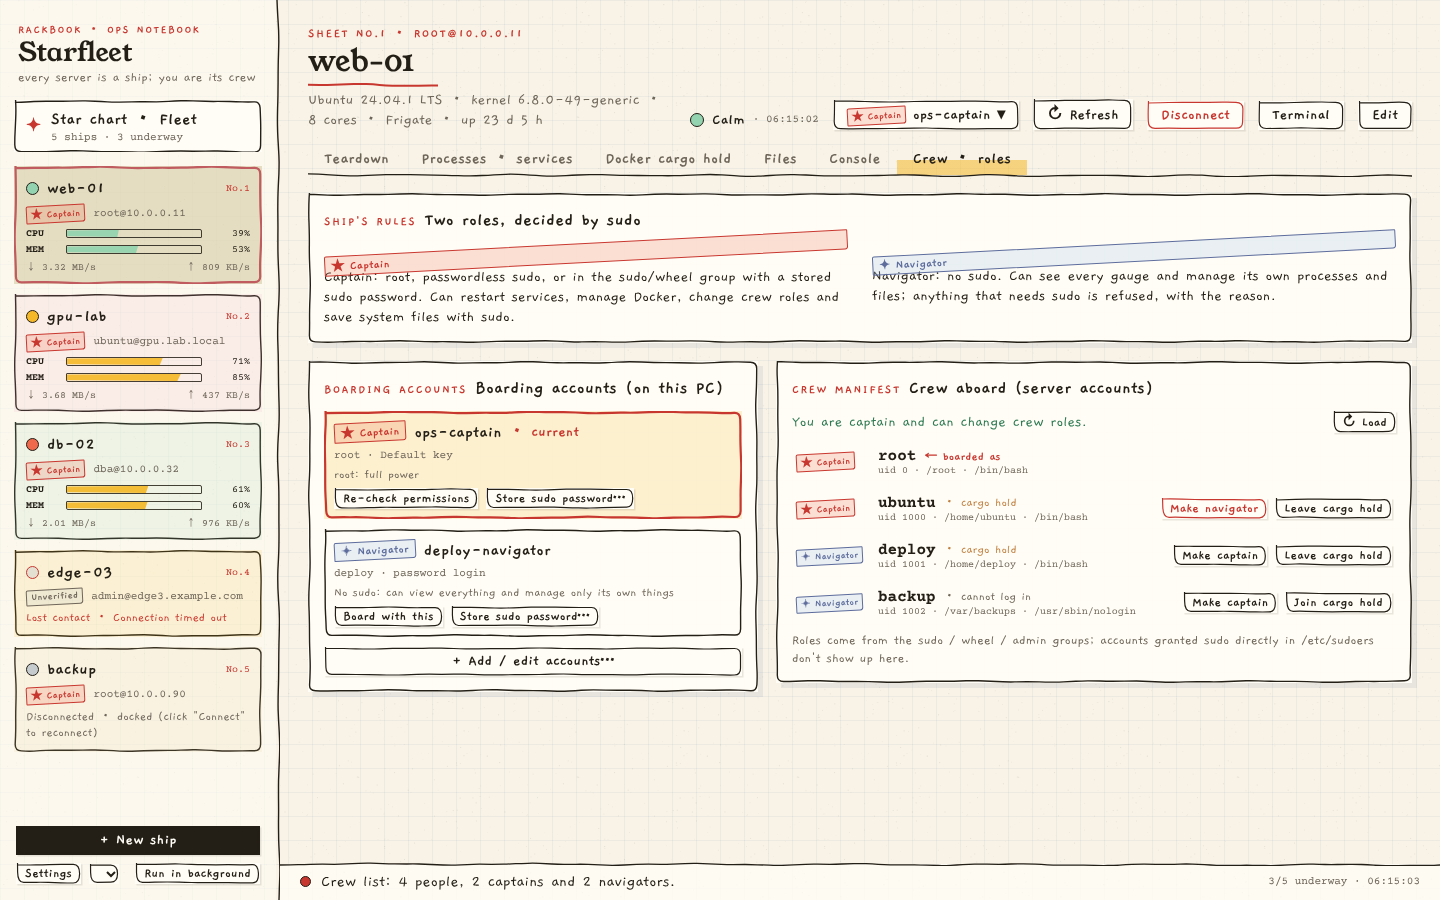
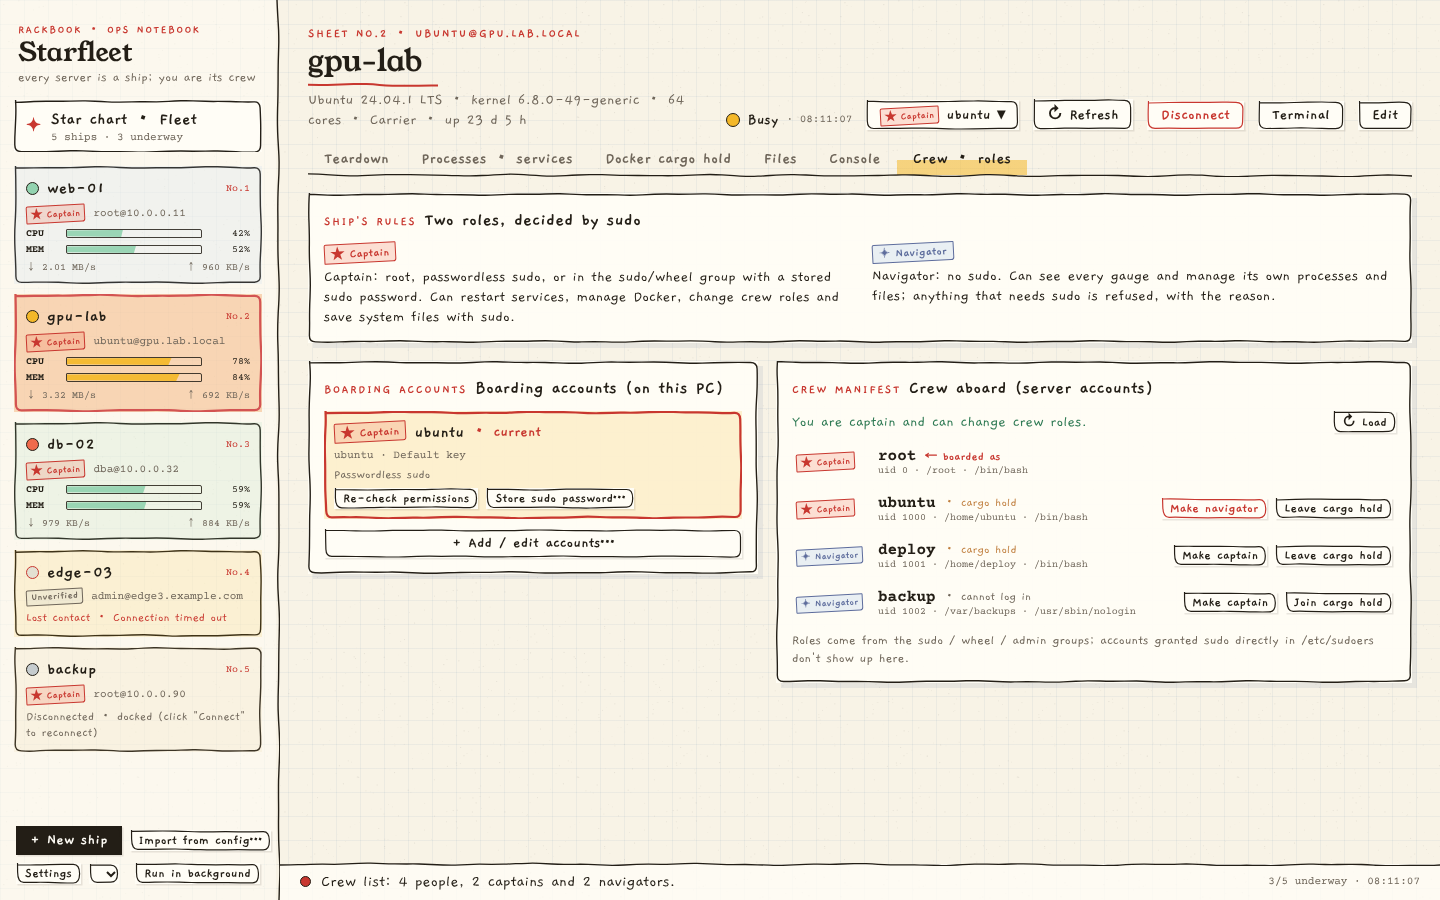
Teardown tab: per-GPU card fills the grid, grouped GPU names, tables that don't wrap; fresh screenshots
- GPU chart shows '8 × NVIDIA A100-PCIE-40GB'; a 'GPUs' card beside it lists util, memory, temperature, power per card
- Storage: usage bars render (they collapsed to a line inside table cells); numbers never wrap; long mount names truncate
- Chart headlines keep the big number on one line and move the note below on narrow windows
- README screenshots retaken (crew page with the badge fix, teardown with 8 GPUs, import dialog); READMEs mention import

Claude-Session: https://claude.ai/code/session_01EYWfbXdmoVbhbVGBKLyeYf

diff --git a/ui/js/views/tab_teardown.js b/ui/js/views/tab_teardown.js
@@ -89,7 +89,17 @@ export function mount(el, { id }) {
       cc('net', 'Network', '网络吞吐', s ? '↓ ' + F.rate(s.rxRate) : '—', s ? `↑ ${F.rate(s.txRate)}   蓝 = 下行，红 = 上行` : ''),
       cc('disk', 'Disk I/O', '磁盘读写', s ? '读 ' + F.rate(s.ioRead) : '—', s ? `写 ${F.rate(s.ioWrite)}   绿 = 读，棕 = 写` : ''),
     ];
-    if (s?.gpus?.length) charts.push(cc('gpu', 'GPU', '显卡占用（平均）', F.pct(gpuUtil(s)), `${s.gpus.length} 块 · ${s.gpus.map((g) => g.name).join(', ')}`));
+    if (s?.gpus?.length) {
+      // "8 × NVIDIA A100-PCIE-40GB" rather than the same name eight times
+      const models = Object.entries(s.gpus.reduce((m, g) => ((m[g.name] = (m[g.name] || 0) + 1), m), {})).map(([n, c]) => (c > 1 ? `${c} × ${n}` : n)).join(' · ');
+      charts.push(cc('gpu', 'GPU', '显卡占用（平均）', F.pct(gpuUtil(s)), models));
+      // the card beside it: one row per GPU, so the grid has no hole and each card is readable at a glance
+      const hot = (t) => (t == null ? '' : t >= 85 ? 'red' : '');
+      charts.push(`<div class="card sk${hero.focus === 'gpu' ? ' lit' : ''}"><div class="head"><span class="kicker">GPUs</span><span class="h">逐块显卡</span></div>
+        <div style="overflow:auto;max-height:200px"><table class="sheet"><tr><th>#</th><th style="width:38%">占用</th><th class="r">显存</th><th class="r">温度</th><th class="r">功耗</th></tr>` +
+        s.gpus.map((g) => `<tr><td class="nw"><b>${g.index}</b></td><td><div class="row" style="gap:6px">${bar(g.util / 100, C.pink, 9)}<span class="nw" style="width:34px;text-align:right">${F.pct(g.util)}</span></div></td><td class="r">${F.bytes(g.memUsed)} / ${F.bytes(g.memTotal)}</td><td class="r ${hot(g.temp)}">${g.temp == null ? '—' : Math.round(g.temp) + '°C'}</td><td class="r">${g.power == null ? '—' : Math.round(g.power) + ' W'}</td></tr>`).join('') +
+        `</table></div></div>`);
+    }
     const ch = el.querySelector('#charts');
     ch.innerHTML = charts.join('');
     const draw = (k, lines, maxY, fmt) => { const c = ch.querySelector(`[data-c="${k}"]`); if (c) lineChart(c, lines, maxY, fmt); };
@@ -99,11 +109,11 @@ export function mount(el, { id }) {
     draw('disk', [{ values: hist.ioR, color: C.sage }, { values: hist.ioW, color: C.wood, fill: false }], null, F.rate);
     draw('gpu', [{ values: hist.gpu, color: C.pink }], 100, F.pct);
 
-    el.querySelector('#disks').innerHTML = card(s && s.mounts.length ? `<table class="sheet"><tr><th>挂载点</th><th style="width:40%">用量</th><th class="r">已用 / 总量</th><th class="r">%</th></tr>` +
-      s.mounts.map((m) => `<tr class="${mountFrac(m) > 0.9 ? 'red' : ''}"><td class="hand"><b>${esc(m.mount)}</b><div class="mono muted" style="font-size:10px">${esc(m.fs)} · ${esc(m.type)}</div></td><td>${bar(mountFrac(m), null, 11)}</td><td class="r">${F.bytes(m.used)} / ${F.bytes(m.used + m.avail)}</td><td class="r"><b>${F.pct(mountFrac(m) * 100)}</b></td></tr>`).join('') + '</table>'
+    el.querySelector('#disks').innerHTML = card(s && s.mounts.length ? `<table class="sheet"><tr><th>挂载点</th><th>用量</th><th class="r">已用 / 总量</th><th class="r">%</th></tr>` +
+      s.mounts.map((m) => `<tr class="${mountFrac(m) > 0.9 ? 'red' : ''}"><td class="hand name" title="${esc(m.mount)}"><b data-notr>${esc(m.mount)}</b><div class="mono muted" data-notr style="font-size:10px">${esc(m.fs)} · ${esc(m.type)}</div></td><td style="min-width:90px">${bar(mountFrac(m), null, 11)}</td><td class="r">${F.bytes(m.used)} / ${F.bytes(m.used + m.avail)}</td><td class="r"><b>${F.pct(mountFrac(m) * 100)}</b></td></tr>`).join('') + '</table>'
       : '<div class="muted">没有可显示的挂载点。</div>', { kicker: 'Storage', title: '挂载点', lit: hero.focus === 'disk' });
     el.querySelector('#nets').innerHTML = card(s && s.nets.length ? `<table class="sheet"><tr><th>名称</th><th class="r">下行</th><th class="r">上行</th><th class="r">累计 收 / 发</th></tr>` +
-      s.nets.slice(0, 10).map((n) => `<tr><td><b>${esc(n.name)}</b></td><td class="r">${F.rate(n.rxRate)}</td><td class="r">${F.rate(n.txRate)}</td><td class="r">${F.bytes(n.rx)} / ${F.bytes(n.tx)}</td></tr>`).join('') + '</table>'
+      s.nets.slice(0, 10).map((n) => `<tr><td class="name" title="${esc(n.name)}"><b data-notr>${esc(n.name)}</b></td><td class="r">${F.rate(n.rxRate)}</td><td class="r">${F.rate(n.txRate)}</td><td class="r">${F.bytes(n.rx)} / ${F.bytes(n.tx)}</td></tr>`).join('') + '</table>'
       : '<div class="muted">没有网卡数据。</div>', { kicker: 'Interfaces', title: '网卡', lit: hero.focus === 'net' });
     sketchAll(el);
   };

diff --git a/ui/css/style.css b/ui/css/style.css
@@ -103,7 +103,7 @@ input, textarea, select, button { font: inherit; color: inherit; }
 .meter { display: flex; align-items: center; gap: 6px; font-family: var(--mono); font-size: 10px; }
 .meter .lab { width: 34px; font-weight: 700; }
 .meter .val { width: 42px; text-align: right; }
-.bar { position: relative; flex: 1; height: 9px; border: 1px solid rgba(35,30,22,.85); border-radius: 1px 2px 1px 2px; background: transparent; overflow: hidden; }
+.bar { display: block; min-width: 40px; position: relative; flex: 1; height: 9px; border: 1px solid rgba(35,30,22,.85); border-radius: 1px 2px 1px 2px; background: transparent; overflow: hidden; }
 .bar > i { position: absolute; left: 0; top: 0; bottom: 0; clip-path: polygon(0 8%, 100% 0, 97% 100%, 0 92%); opacity: .92; }
 
 .badge { display: inline-block; font-weight: 700; font-size: 13px; padding: 0 6px; transform: rotate(-3deg); border: 1.2px solid currentColor; border-radius: 2px 1px 3px 1px; white-space: nowrap; }
@@ -187,3 +187,11 @@ body.float #floatcard { margin: 8px; padding: 12px; width: 280px; position: rela
 
 /* a badge inside a column keeps its own width instead of stretching across it */
 .col > .badge { align-self: flex-start; }
+
+/* numbers in tables never wrap; long names give way instead */
+table.sheet td.r, table.sheet th.r, table.sheet td.nw, table.sheet th.nw { white-space: nowrap; }
+table.sheet td.name { max-width: 0; width: 34%; overflow: hidden; text-overflow: ellipsis; white-space: nowrap; }
+table.sheet td.name > * { overflow: hidden; text-overflow: ellipsis; }
+/* chart headline: the big number stays on one line, the note moves below it when space runs out */
+.card > .row.base { flex-wrap: wrap; row-gap: 0; }
+.card > .row.base > .big { white-space: nowrap; }

diff --git a/ui/js/mock.js b/ui/js/mock.js
@@ -17,7 +17,7 @@ const servers = [
 ];
 const spec = {
   'web-01': { cores: 8, mem: 16, cpu: 28, disk: 0.61, gpus: 0, docker: true },
-  'gpu-lab': { cores: 32, mem: 128, cpu: 74, disk: 0.48, gpus: 2, docker: true },
+  'gpu-lab': { cores: 64, mem: 512, cpu: 74, disk: 0.48, gpus: 8, docker: true },
   'db-02': { cores: 4, mem: 32, cpu: 45, disk: 0.93, gpus: 0, docker: false },
   'edge-03': { cores: 2, mem: 2, cpu: 10, disk: 0.3, gpus: 0, docker: false },
   'backup': { cores: 4, mem: 8, cpu: 3, disk: 0.7, gpus: 0, docker: false },
@@ -47,7 +47,7 @@ function snap(s, k) {
     ioRead: Math.max(0, 1.2e6 + wav(9e5, 2)), ioWrite: Math.max(0, 4e6 + wav(3e6, 4)),
     procs: [['nginx', 'www-data', 12.3, 1.2], ['postgres', 'postgres', 8.1, 6.3], ['python3', 'root', 5.5, 3.1], ['node', 'deploy', 4.2, 2.2], ['dockerd', 'root', 1.9, 1.4], ['sshd', 'root', 0.3, 0.1], ['systemd', 'root', 0.1, 0.2]]
       .map(([c, u, p, m], i) => ({ pid: 1000 + i * 37, user: u, cpu: p, mem: m, rss: m * 1.6e8, command: c })),
-    tcp: 132, gpus: Array.from({ length: sp.gpus }, (_, i) => ({ index: i, name: 'NVIDIA RTX A6000', util: Math.max(0, Math.min(100, 70 + wav(25, 2 + i))), memUsed: 3.1e10, memTotal: 5.1e10, temp: 71 + i * 4, power: 260 })),
+    tcp: 132, gpus: Array.from({ length: sp.gpus }, (_, i) => ({ index: i, name: 'NVIDIA A100-PCIE-40GB', util: Math.max(0, Math.min(100, 70 + wav(25, 2 + i))), memUsed: 2.6e10 + i * 1.2e9, memTotal: 4.0e10, temp: 58 + i * 4, power: 180 + i * 9 })),
     hasDocker: sp.docker,
   };
 }

diff --git a/docs/i18n/README.ja.md b/docs/i18n/README.ja.md
@@ -92,7 +92,7 @@ English · 日本語 · Español · 简体中文 · 繁體中文 · 한국어。
 
 ## はじめかた
 
-1. 「＋ 新しい艦船」を押し、ホスト・ポート・ユーザーを入力します。
+1. 「＋ 新しい艦船」を押し、ホスト・ポート・ユーザーを入力します。「設定から取り込む…」を押せば、`~/.ssh/config`（Windows では PuTTY のセッションも）からまとめて追加できます。
 2. 「鍵」（パスを空にすると `~/.ssh` のいつもの鍵を試します）か「パスワード」を選びます。
 3. Rackbook が `sudo` で何ができるかを調べ、アカウントを「艦長」か「航海士」にします。艦長は sudo パスワードを保存しておけば、毎回聞かれずに操作できます。
 4. 艦船をクリックして乗艦すると、分解図・プロセス・Docker・ファイル・コンソール・乗組員が開きます。

diff --git a/docs/i18n/README.es.md b/docs/i18n/README.es.md
@@ -92,7 +92,7 @@ Descarga el instalador para tu sistema en **[Releases](https://github.com/Criane
 
 ## Primeros pasos
 
-1. Pulsa **+ Nueva nave** e indica host, puerto y usuario.
+1. Pulsa **+ Nueva nave** e indica host, puerto y usuario. O pulsa **Importar de configuración…** para elegir de una vez servidores de tu `~/.ssh/config` (y de las sesiones de PuTTY en Windows).
 2. Elige **Clave** (si dejas la ruta vacía, Rackbook prueba tus claves habituales de `~/.ssh`) o **Contraseña**.
 3. Rackbook comprueba lo que permite `sudo` y convierte la cuenta en **capitán** o **navegante**. Los capitanes pueden guardar una contraseña de sudo para no tener que escribirla cada vez.
 4. Aborda la nave (haz clic en ella) para abrir su despiece, procesos, Docker, archivos, consola y tripulación.

diff --git a/docs/i18n/README.zh-TW.md b/docs/i18n/README.zh-TW.md
@@ -92,7 +92,7 @@ English · 日本語 · Español · 简体中文 · 繁體中文 · 한국어。
 
 ## 快速開始
 
-1. 點「＋ 新艦船」，填寫主機、埠和使用者名稱。
+1. 點「＋ 新艦船」，填寫主機、連接埠和使用者名稱。也可以點「從設定匯入…」，從 `~/.ssh/config`（Windows 上還有 PuTTY 工作階段）裡一次勾選匯入。
 2. 選擇「金鑰」（路徑留空時會自動嘗試 `~/.ssh` 裡的常用金鑰）或「密碼」。
 3. Rackbook 會檢查 `sudo` 實際允許什麼，把帳戶定為「艦長」或「領航員」。艦長可以儲存 sudo 密碼，之後操作不用每次都輸入。
 4. 點選艦船登艦，開啟它的拆解圖、程序、Docker、檔案、控制檯和船員。

diff --git a/README.md b/README.md
@@ -92,7 +92,7 @@ Grab the installer for your system from **[Releases](https://github.com/CrianeZR
 
 ## Getting started
 
-1. Click **+ New ship** and enter the host, port and user.
+1. Click **+ New ship** and enter the host, port and user. Or click **Import from config…** to pick servers from your `~/.ssh/config` (and PuTTY sessions on Windows) in one go.
 2. Choose **Key** (Rackbook tries your usual `~/.ssh` keys if you leave the path empty) or **Password**.
 3. Rackbook checks what `sudo` allows and makes the account a **captain** or a **navigator**. Captains can store a sudo password so they can act without being asked each time.
 4. Board the ship (click it) to open its teardown, processes, Docker, files, console and crew.

diff --git a/docs/i18n/README.zh-CN.md b/docs/i18n/README.zh-CN.md
@@ -92,7 +92,7 @@ English · 日本語 · Español · 简体中文 · 繁體中文 · 한국어。
 
 ## 快速开始
 
-1. 点「＋ 新舰船」，填写主机、端口和用户名。
+1. 点「＋ 新舰船」，填写主机、端口和用户名。也可以点「从配置导入…」，从 `~/.ssh/config`（Windows 上还有 PuTTY 会话）里一次勾选导入。
 2. 选择「密钥」（路径留空时会自动尝试 `~/.ssh` 里的常用密钥）或「密码」。
 3. Rackbook 会检查 `sudo` 实际允许什么，把账户定为「舰长」或「领航员」。舰长可以保存 sudo 密码，之后操作不用每次都输入。
 4. 点击舰船登舰，打开它的拆解图、进程、Docker、文件、控制台和船员。
